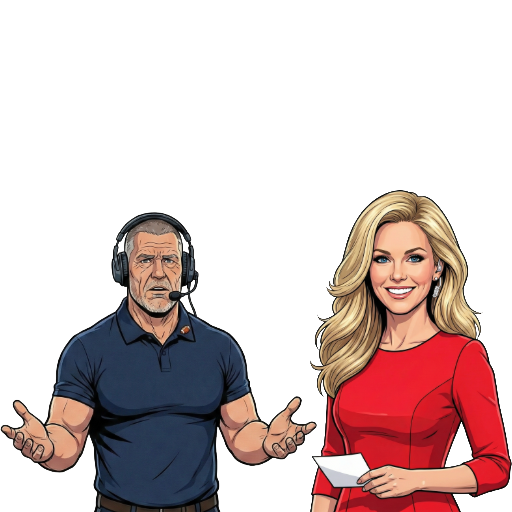
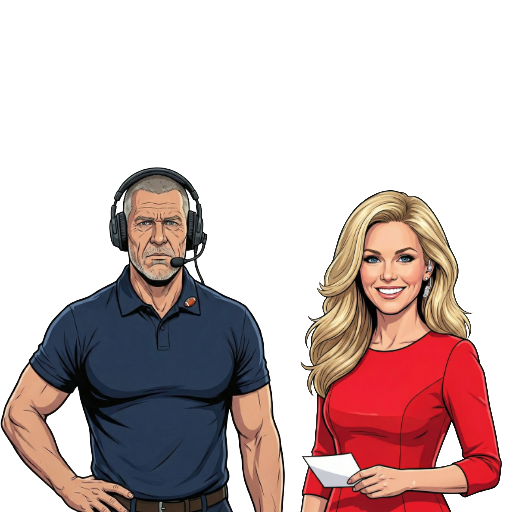
out

Changed region(s): [[0.0, 0.3125, 1.0, 1.0], [0.3125, 0.875, 0.3438, 0.9062]]

diff --git a/components/TourGuide.tsx b/components/TourGuide.tsx
@@ -75,7 +75,6 @@ export const TourGuide: React.FC<TourGuideProps> = ({ steps, isOpen, onComplete,
         let maxRight = -Infinity;
         let foundAny = false;
 
-        // 1. Calculate Union Bounding Box
         targetIds.forEach(id => {
             const el = document.getElementById(id);
             if (el) {
@@ -101,19 +100,12 @@ export const TourGuide: React.FC<TourGuideProps> = ({ steps, isOpen, onComplete,
                 opacity: 1
             });
 
-            // 3. THE "BANNER ALIGNMENT" SCROLL
             if (!hasScrolled) {
                 const BANNER_HEIGHT = 150; 
                 const absoluteTop = window.scrollY + minTop;
-                
-                // Calculate target: Align top of element to bottom of banner
                 const targetScrollY = Math.max(0, absoluteTop - BANNER_HEIGHT - PADDING_Y - 20);
 
-                window.scrollTo({
-                    top: targetScrollY,
-                    behavior: 'smooth'
-                });
-
+                window.scrollTo({ top: targetScrollY, behavior: 'smooth' });
                 setHasScrolled(true);
             }
 
@@ -198,10 +190,14 @@ export const TourGuide: React.FC<TourGuideProps> = ({ steps, isOpen, onComplete,
   const audioScript = currentStep.audioScript?.[langCode] || currentStep.audioScript?.['en'];
   const isWelcome = currentStep.id === 'welcome';
 
+  // --- DYNAMIC BACKGROUND LOGIC ---
+  const bannerLang = langCode === 'SCO' ? 'sc' : langCode.toLowerCase();
+  // Assuming JPG. If you prefer PNG, change .jpg to .png here.
+  const bannerUrl = `/pundit/banner-${bannerLang}.jpg`; 
+
   return createPortal(
     <div className="fixed inset-0 z-[9999] overflow-hidden font-sans touch-none select-none pointer-events-none">
       
-      {/* 0. PULSING FRAME STYLE */}
       <style>{`
         @keyframes tour-frame-pulse {
             0% { box-shadow: 0 0 0 4px #fbbf24, 0 0 20px 4px rgba(251, 191, 36, 0.6), 0 0 0 9999px rgba(15, 23, 42, 0.85); }
@@ -219,7 +215,23 @@ export const TourGuide: React.FC<TourGuideProps> = ({ steps, isOpen, onComplete,
             <div className="absolute inset-0 bg-slate-900/95 backdrop-blur-sm animate-in fade-in duration-300"></div>
             <div className="relative w-full max-w-sm bg-white rounded-3xl overflow-hidden shadow-2xl animate-in zoom-in-95 duration-300 border-4 border-yellow-400">
                 <div className="h-40 bg-[#0f2545] flex items-center justify-center relative overflow-hidden">
-                    <div className="absolute inset-0 bg-[url('/pundit-banner.png')] bg-cover bg-center opacity-40"></div>
+                    {/* CHANGED: Dynamic Background Image with Fallback */}
+                    <div 
+                        className="absolute inset-0 bg-cover bg-center opacity-40 transition-all duration-500"
+                        style={{ backgroundImage: `url('${bannerUrl}')` }}
+                    >
+                        {/* Fallback (Hidden img to catch error and swap background if missing) */}
+                        <img 
+                            src={bannerUrl} 
+                            onError={(e) => { 
+                                const parent = e.currentTarget.parentElement;
+                                if(parent) parent.style.backgroundImage = "url('/pundit/banner-en.jpg')"; // Fallback to EN
+                            }}
+                            className="hidden" 
+                            alt="" 
+                        />
+                    </div>
+                    
                     <div className="absolute inset-0 bg-gradient-to-t from-[#0f2545] to-transparent"></div>
                     <div className="relative z-10 text-center">
                         <h2 className="text-3xl font-black text-white italic uppercase tracking-tighter drop-shadow-lg">
@@ -287,8 +299,7 @@ export const TourGuide: React.FC<TourGuideProps> = ({ steps, isOpen, onComplete,
                     <div className="w-48 relative hidden sm:block">
                         <div className="absolute bottom-0 left-0 w-64 h-52 z-50 flex items-end transition-transform hover:scale-105 duration-300 origin-bottom-left">
                             <img 
-                                // FIXED: Maps 'SCO' to 'sc', otherwise lowercases the code (EN->en, US->us, NO->no)
-                                src={`/pundit/team-${langCode === 'SCO' ? 'sc' : langCode.toLowerCase()}.png`} 
+                                src={`/pundit/team-${bannerLang}.png`} 
                                 onError={(e) => { 
                                     const target = e.currentTarget;
                                     target.onerror = null; 
